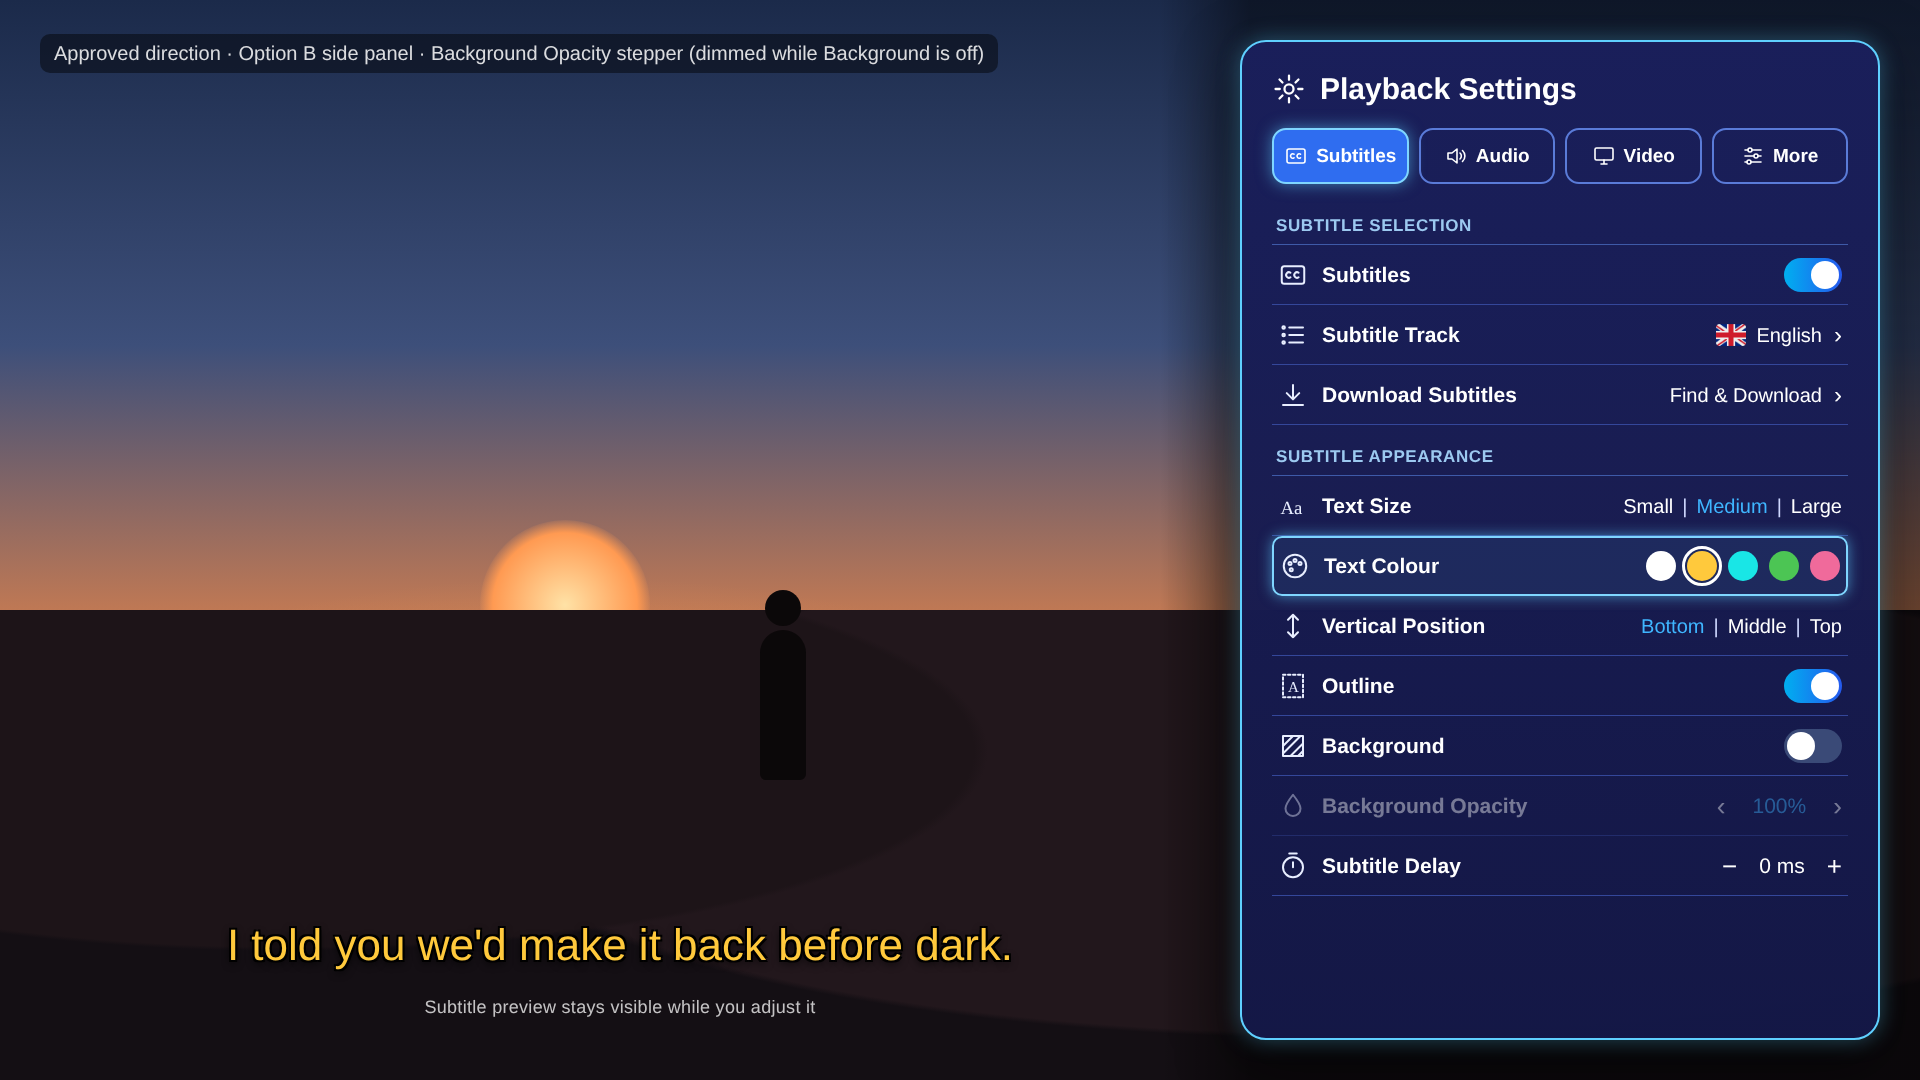
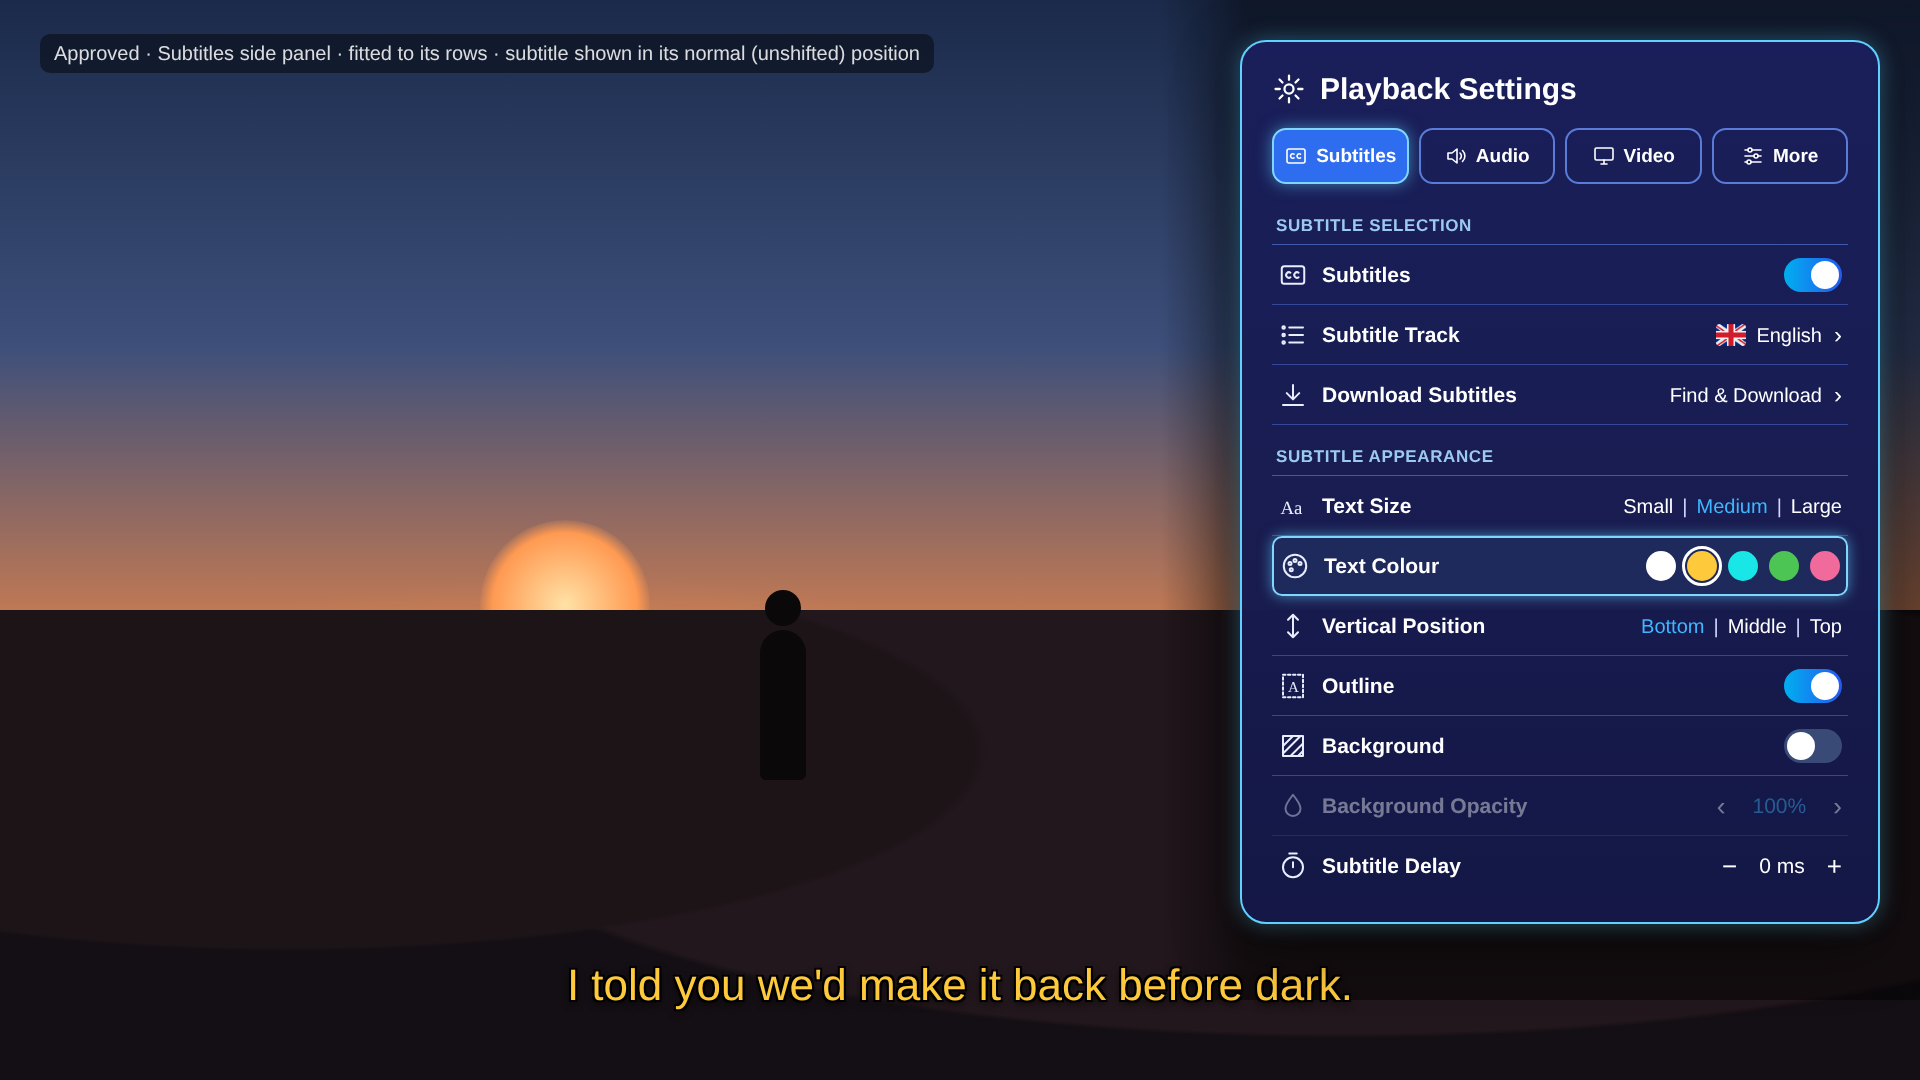
docs: fit the Subtitles side panel to its rows; keep subtitles unshifted
Owner decisions (2 Nov 2026): the side panel's height fits its rows with
comfortable padding, and (delegated) subtitles are not shifted while the
panel is open, so they never jump and the renderer is untouched. The
fitted panel ends above the normal bottom subtitle area, as the updated
mock-up shows.

Claude-Session: https://claude.ai/code/session_01FtDZqamY6pdaUKwc7fqgiA

Changed region(s): [[0.125, 0.825, 1.0, 0.9778], [0.0625, 0.0306, 0.5312, 0.0917]]

diff --git a/docs/design/approved-mockups/playback-settings/render-subtitles-side-panel.js b/docs/design/approved-mockups/playback-settings/render-subtitles-side-panel.js
@@ -38,13 +38,14 @@ body{width:1920px;height:1080px;overflow:hidden;font-family:Roboto,"Noto Sans",A
   radial-gradient(ellipse 900px 240px at 70% 40%,#22171c 98%,transparent 100%),#140f14}
 .film .figure{position:absolute;left:760px;bottom:300px;width:46px;height:150px;border-radius:23px 23px 6px 6px;background:#0b0809}
 .film .figure:before{content:"";position:absolute;left:5px;top:-40px;width:36px;height:36px;border-radius:50%;background:#0b0809}
-.dim{position:absolute;top:0;bottom:0;right:0;width:760px;background:linear-gradient(90deg,rgba(0,0,0,0),rgba(0,0,0,.45) 90px)}
-.subtitle{position:absolute;left:0;width:1240px;bottom:110px;text-align:center;font-size:44px;font-weight:500;color:#ffc93c;
+.dim{position:absolute;top:0;height:1000px;right:0;width:760px;background:linear-gradient(90deg,rgba(0,0,0,0),rgba(0,0,0,.45) 90px)}
+.subtitle{position:absolute;left:0;width:1920px;bottom:70px;text-align:center;font-size:44px;font-weight:500;color:#ffc93c;
   text-shadow:-2px -2px 0 #000,2px -2px 0 #000,-2px 2px 0 #000,2px 2px 0 #000,0 3px 8px #000}
-.preview-note{position:absolute;left:0;width:1240px;bottom:62px;text-align:center;font-size:18px;color:rgba(255,255,255,.75);letter-spacing:.3px}
-.panel{position:absolute;top:40px;bottom:40px;right:40px;width:640px;border-radius:26px;
+.preview-note{position:absolute;left:0;width:1240px;bottom:1000px;display:none;text-align:center;font-size:18px;color:rgba(255,255,255,.75);letter-spacing:.3px}
+.panel{position:absolute;top:40px;right:40px;width:640px;border-radius:26px;
   background:linear-gradient(180deg,rgba(26,31,92,.96),rgba(20,24,72,.96));border:2px solid #5fd0ff;
-  box-shadow:0 0 22px rgba(95,208,255,.35),0 20px 60px rgba(0,0,0,.55);padding:30px 30px 24px;display:flex;flex-direction:column}
+  box-shadow:0 0 22px rgba(95,208,255,.35),0 20px 60px rgba(0,0,0,.55);padding:30px 30px 26px;display:flex;flex-direction:column}
+.panel .row:last-child:after{display:none}
 .title{display:flex;align-items:center;gap:14px;font-size:30px;font-weight:700;margin-bottom:22px}
 .tabs{display:grid;grid-template-columns:repeat(4,1fr);gap:10px;margin-bottom:22px}
 .tab{height:56px;border-radius:14px;border:2px solid #5a7bd8;display:flex;align-items:center;justify-content:center;gap:8px;font-size:19px;font-weight:600}
@@ -71,7 +72,7 @@ body{width:1920px;height:1080px;overflow:hidden;font-family:Roboto,"Noto Sans",A
 </style></head><body>
 <div class="film"><div class="sun"></div><div class="hills"></div><div class="figure"></div></div>
 <div class="dim"></div>
-<div class="label-tag">Approved direction · Option B side panel · Background Opacity stepper (dimmed while Background is off)</div>
+<div class="label-tag">Approved · Subtitles side panel · fitted to its rows · subtitle shown in its normal (unshifted) position</div>
 <div class="subtitle">I told you we'd make it back before dark.</div>
 <div class="preview-note">Subtitle preview stays visible while you adjust it</div>
 <div class="panel">

diff --git a/docs/design/PLAYBACK_SUBTITLES_SIDE_PANEL_APPROVED_2026-11-02.md b/docs/design/PLAYBACK_SUBTITLES_SIDE_PANEL_APPROVED_2026-11-02.md
@@ -9,7 +9,7 @@
 On the Shield (owner photo, 2 Nov 2026) the centred panel covered ~60% of the width and ~85% of the height, hiding the picture whose subtitles are being adjusted.
 
 ## Layout (1920×1080 logical; scale with dp for other resolutions)
-- Panel docked **right**: 40px from top, bottom and right edges; **640px wide** (one third of the screen). Rounded corners ~26px, existing cyan outline and glow, existing navy panel colours.
+- Panel docked **top-right**: 40px from the top and right edges; **640px wide** (one third of the screen). **Height fits its rows** (owner, 2 Nov 2026): no empty space below Subtitle Delay, but not cramped — ~26–30px inner padding top and bottom, as drawn. Rounded corners ~26px, existing cyan outline and glow, existing navy panel colours.
 - A soft dark gradient (~90px) on the panel's left edge separates it from the video; **no** full-screen dim. Video keeps playing and stays visible on the left two thirds.
 - Header: gear icon + "Playback Settings". Tabs in one row of four equal widths: Subtitles · Audio · Video · More (active tab filled blue with glow, as today).
 - Section headings unchanged: SUBTITLE SELECTION, SUBTITLE APPEARANCE.
@@ -34,9 +34,11 @@ On the Shield (owner photo, 2 Nov 2026) the centred panel covered ~60% of the wi
 - Remote: Up/Down moves between rows; Left/Right changes the focused row's value (or moves between tabs on the tab row); OK toggles switches and opens Track/Download; Back closes the panel and restores HUD focus.
 - Toggles use the shared 44×26dp switch face (0.151).
 
-## Still to confirm with the owner before implementation
-- **Panel height:** keep full height (as drawn) or shrink to fit the rows and sit at the top.
-- **Subtitle position while the panel is open:** long subtitle lines may run under the panel. Option: offset subtitles into the visible area only while the panel is open (extra renderer work) vs leave as is.
+## Decided (2 Nov 2026)
+- **Panel height:** fitted to the rows (owner).
+- **Subtitles while the panel is open:** **not shifted** (owner delegated; decision recorded here). Subtitles stay exactly where the renderer normally draws them, so they never jump when the panel opens or closes, and the subtitle engine is untouched. Because the fitted panel ends above the usual bottom subtitle area, a normal bottom subtitle stays fully visible beneath it (as drawn). Very long two-line subtitles, or Middle/Top positions, may run under the panel's left edge while it is open; accepted.
+
+## Still to confirm before implementation
 - Audio, Video and More tabs: to be mocked up in the same side-panel style and approved separately before building.
 
 ## Acceptance (Shield)
